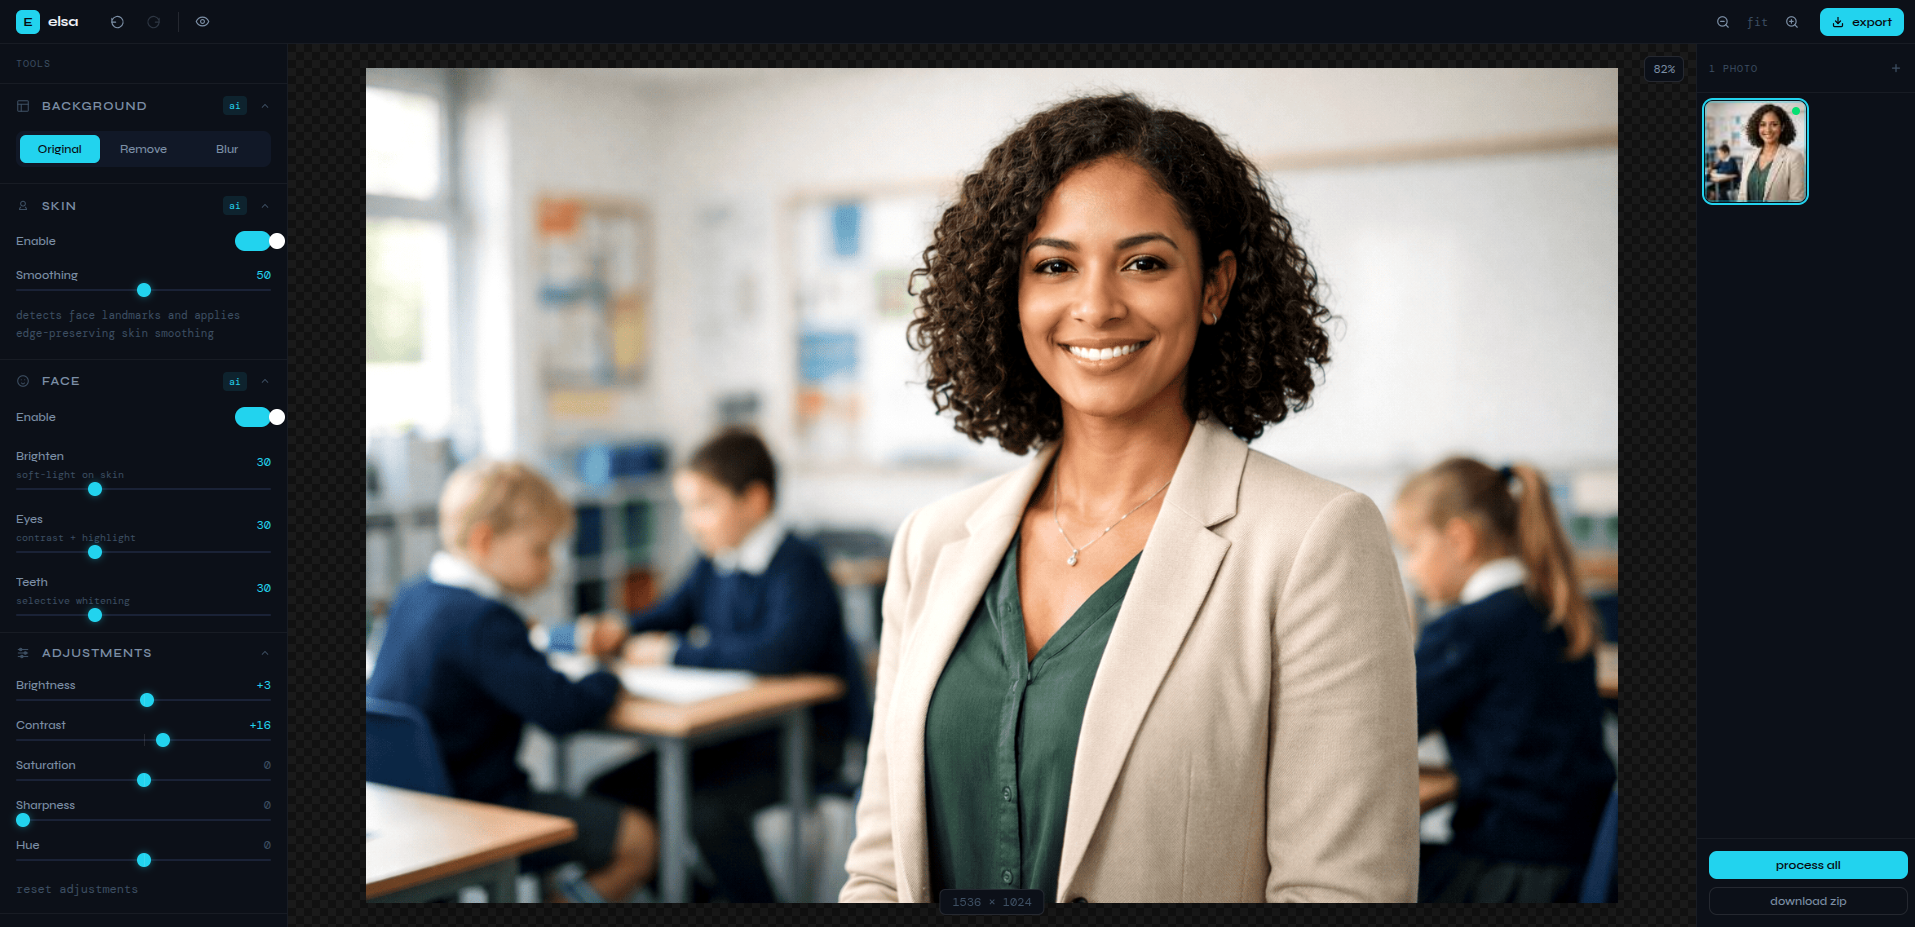
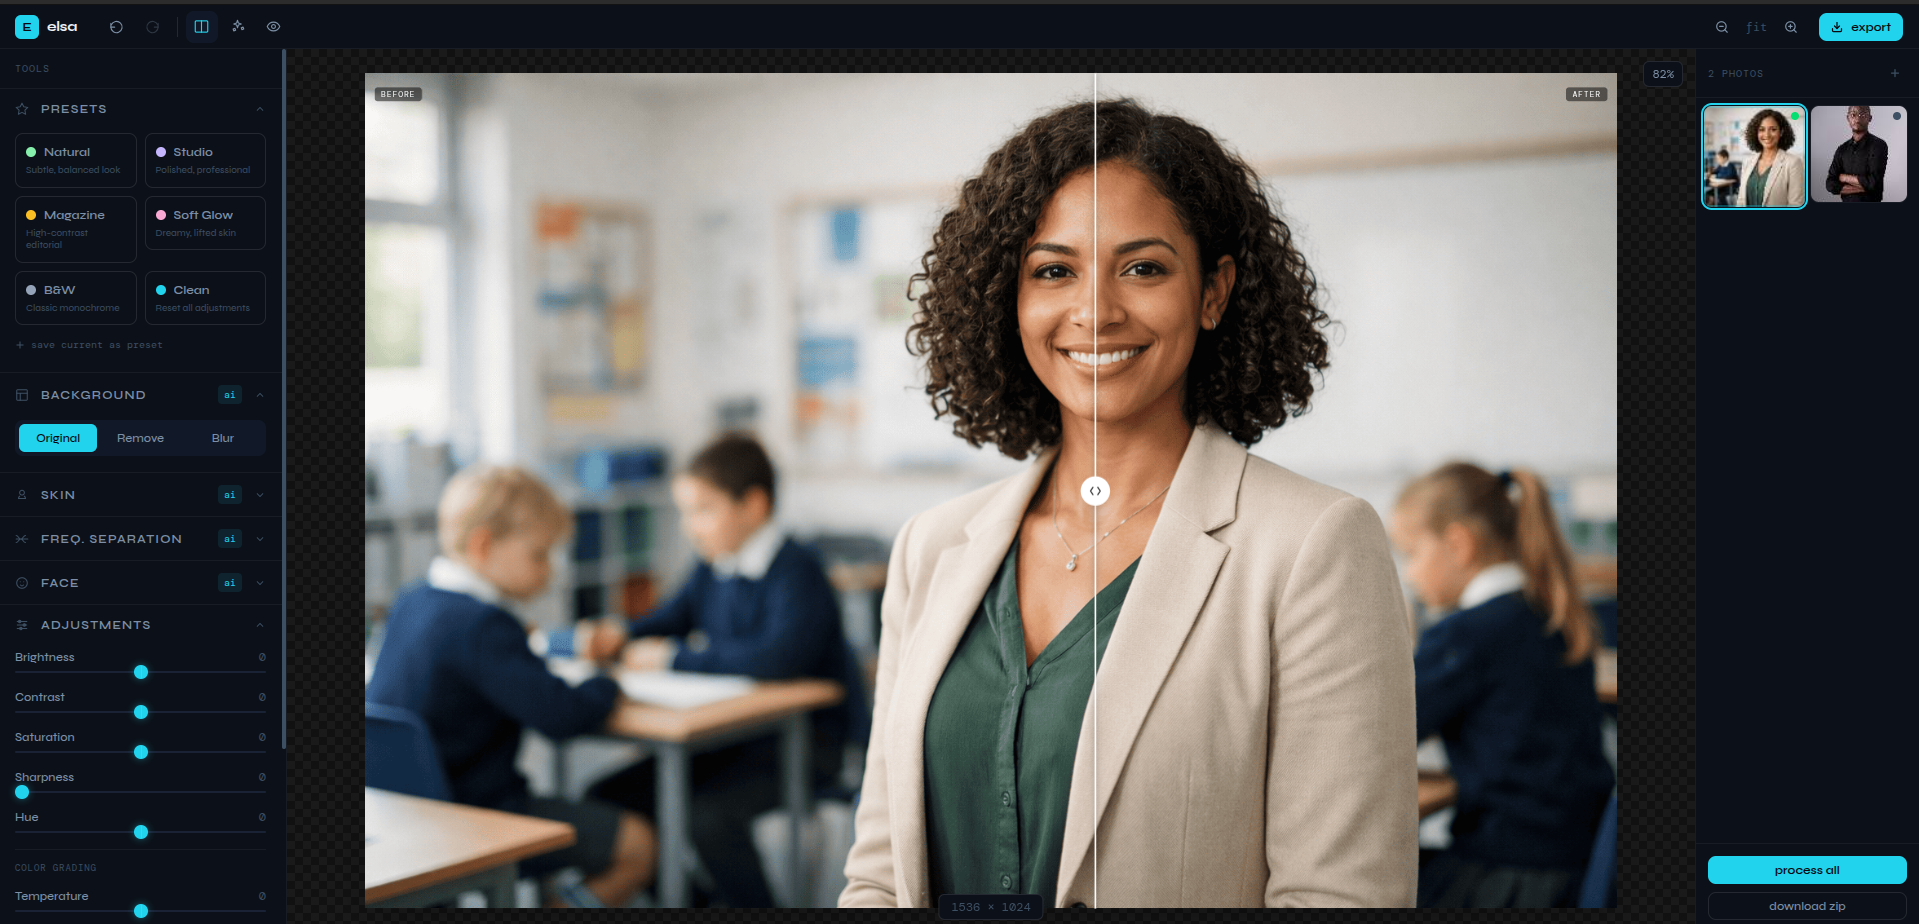
chore: bump version to 0.2.0, update demo screenshot

diff --git a/README.md b/README.md
@@ -1,24 +1,41 @@
 # elsa
 
-A browser-based AI portrait photo editor. All processing runs client-side, no uploads, no server or subscriptions.
+A browser-based AI portrait photo editor. All processing runs client-side with no uploads, no server and no subscription required.
 
 ![elsa demo](public/img/elsa-demo.png)
 
 ## Features
 
-- **Background Remove / Blur** — MediaPipe segmentation isolates the subject for transparent backgrounds or bokeh-style blur
-- **Skin Retouching** — Bilateral-filter approximation smooths skin while preserving edges and texture
-- **Face Enhancement** — Brighten faces, boost eye contrast, whiten teeth with landmark-based masks
-- **Manual Adjustments** — Brightness, contrast, saturation, hue, and sharpness sliders processed in a Web Worker
-- **Batch Processing** — Upload multiple images, apply settings, process all, and download as ZIP
-- **Undo / Redo** — Full settings history per image
-- **Privacy First** — Everything runs in your browser. Images never leave your device.
+**Background Remove / Blur:** MediaPipe selfie multiclass segmentation isolates the subject with sharp edges for transparent backgrounds or bokeh-style blur.
+
+**Skin Retouching:** Bilateral-filter approximation smooths skin while preserving edges and texture.
+
+**Frequency Separation:** Industry-standard technique that smooths skin tone and color while keeping pores and fine texture intact, applied only to detected skin areas.
+
+**Face Enhancement:** Brighten faces, boost eye contrast, and whiten teeth using landmark-based masks.
+
+**Color Grading:** Temperature, tint, shadows, midtones, and highlights controls all processed in a single Web Worker pass.
+
+**Manual Adjustments:** Brightness, contrast, saturation, hue, and sharpness sliders.
+
+**Presets:** Six built-in looks (Natural, Studio, Magazine, Soft Glow, B&W, Clean) plus the ability to save your own custom presets.
+
+**Auto-Enhance:** One-click smart settings based on image luminance, skin ratio, and saturation analysis.
+
+**Before / After:** Draggable split-view compare slider to see original vs edited side by side.
+
+**Batch Processing:** Upload multiple images, apply settings, process all, and download as a ZIP.
+
+**Undo / Redo:** Full settings history per image.
+
+**Privacy First:** Everything runs in your browser. Images never leave your device.
 
 ## Tech Stack
 
 - [Next.js 16](https://nextjs.org) (App Router + Turbopack)
-- [TensorFlow.js](https://www.tensorflow.org/js) + [MediaPipe](https://mediapipe.dev) for AI inference
+- [MediaPipe Tasks Vision](https://ai.google.dev/edge/mediapipe/solutions/vision/image_segmenter) for background segmentation
 - [face-api](https://github.com/vladmandic/face-api) for face landmark detection
+- [TensorFlow.js](https://www.tensorflow.org/js) for AI inference backend
 - [Zustand](https://zustand.docs.pmnd.rs) for state management
 - [Tailwind CSS v4](https://tailwindcss.com) for styling
 - Web Workers for off-main-thread pixel processing
@@ -30,17 +47,20 @@ A browser-based AI portrait photo editor. All processing runs client-side, no up
 git clone https://github.com/aayodejii/elsa.git
 cd elsa
 npm install
+node scripts/downloadModels.js
 npm run dev
 ```
 
 Open [http://localhost:3000](http://localhost:3000) and drop a portrait photo to start editing.
 
+> `node scripts/downloadModels.js` downloads face detection weights and the MediaPipe segmentation model into `public/models/`. This is a one-time step of about 3MB.
+
 ## How It Works
 
-1. **Upload** — Drop images onto the canvas. Each is stored as an `ImageBitmap` (never mutated).
-2. **Edit** — Adjust sliders in the sidebar. Settings changes are debounced and re-run the processing pipeline from the original bitmap.
-3. **AI Pipeline** — Background segmentation, face detection, and skin masks are cached per image. Only the first run loads models; subsequent slider changes reuse cached results.
-4. **Export** — Download the active image or batch-export all as a ZIP.
+1. **Upload:** Drop images onto the canvas. Each is stored as an `ImageBitmap` that is never mutated.
+2. **Edit:** Adjust sliders in the sidebar. Settings changes are debounced and re-run the processing pipeline from the original bitmap.
+3. **AI Pipeline:** Background segmentation, face detection, and skin masks are cached per image. Only the first run loads models; subsequent slider changes reuse cached results.
+4. **Export:** Download the active image or batch-export all as a ZIP.
 
 ## Deploy
 
@@ -49,11 +69,9 @@ npm run build
 npm start
 ```
 
-Or deploy to [Vercel](https://vercel.com) — works out of the box with Next.js.
-
 ## Contributing
 
-Contributions are welcome! See [CONTRIBUTING.md](CONTRIBUTING.md) for guidelines.
+Contributions are welcome. See [CONTRIBUTING.md](CONTRIBUTING.md) for guidelines.
 
 ## License
 
